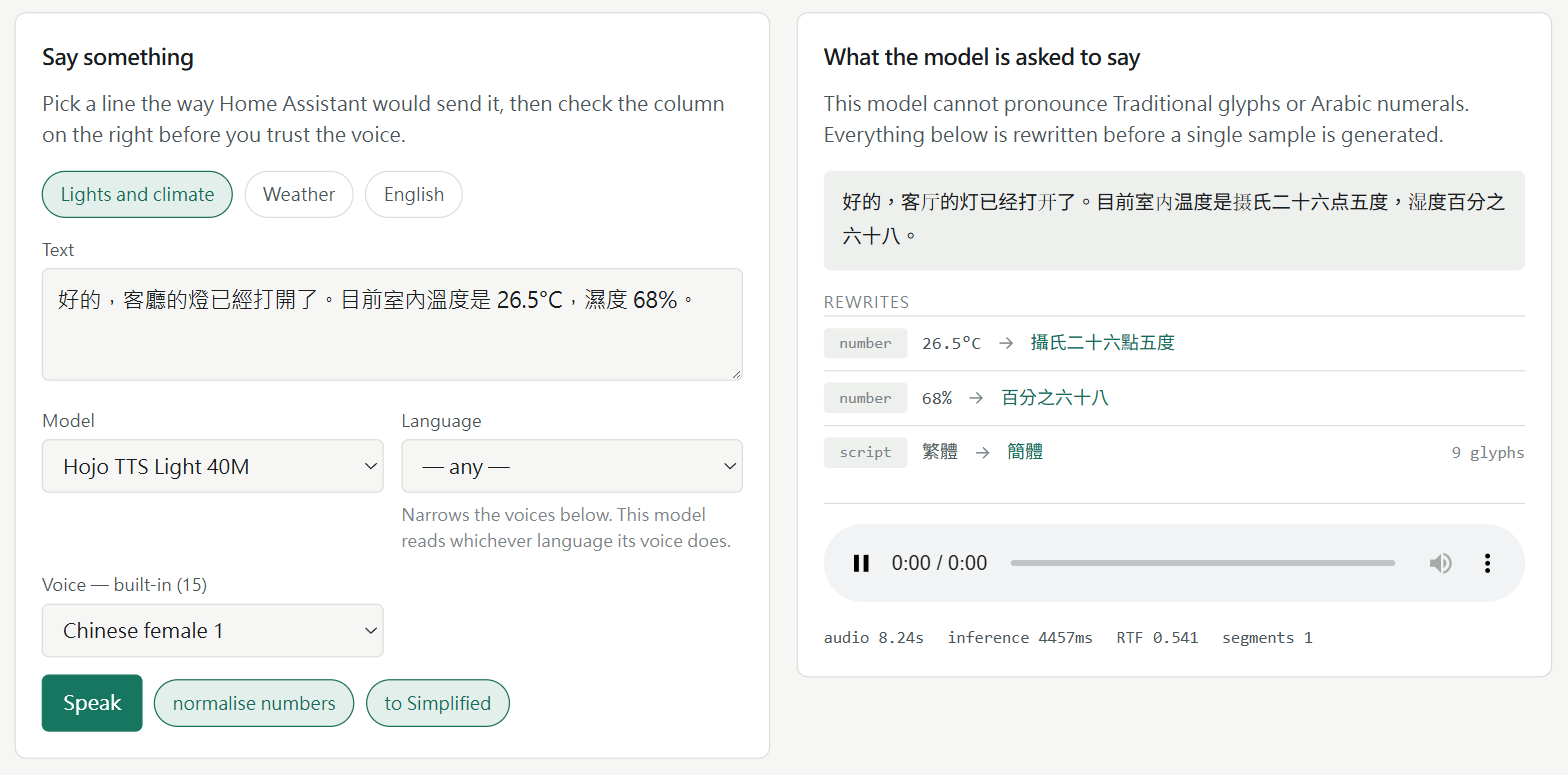
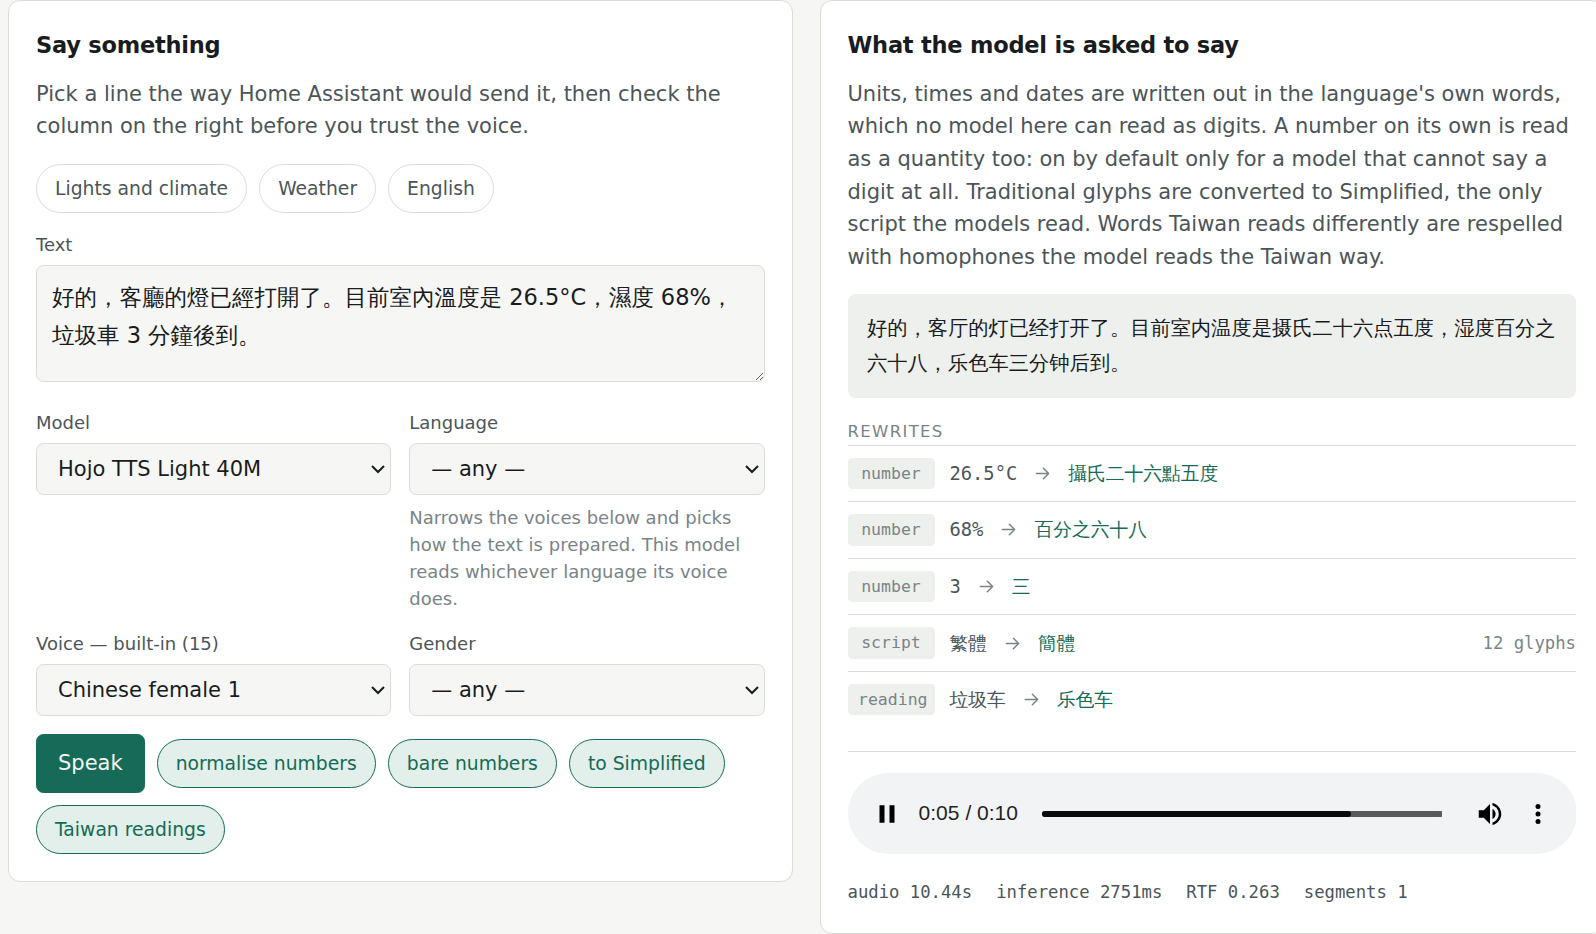
docs: fresh README screenshots, and a models hint that counts six
The composer showed two chips and a two-row ledger; there are four chips,
a readings row and a gender filter now. The models hint still said the
larger two need 2 GB each.

diff --git a/cortex-tts/web/index.html b/cortex-tts/web/index.html
@@ -65,6 +65,14 @@
         <label for="voice" id="voiceLabel">Voice</label>
         <select id="voice"></select>
       </div>
+      <div class="field fixed">
+        <label for="gender">Gender</label>
+        <select id="gender">
+          <option value="">— any —</option>
+          <option value="female">female</option>
+          <option value="male">male</option>
+        </select>
+      </div>
       <div class="field" id="instructField" hidden>
         <label for="instruct">Style instruction</label>
         <input id="instruct" type="text" placeholder="speak slowly, in a warm tone">
@@ -98,7 +106,7 @@
   <div class="sec-head">
     <h2>Models</h2>
     <span class="note">Weights download on demand. Only one model stays in
-    memory at a time by default — the larger two need about 2 GB each.</span>
+    memory at a time by default; the larger ones need 1–2 GB each.</span>
   </div>
   <div class="cards" id="models"></div>
   <div class="msg" id="modelMsg" aria-live="polite" hidden></div>
